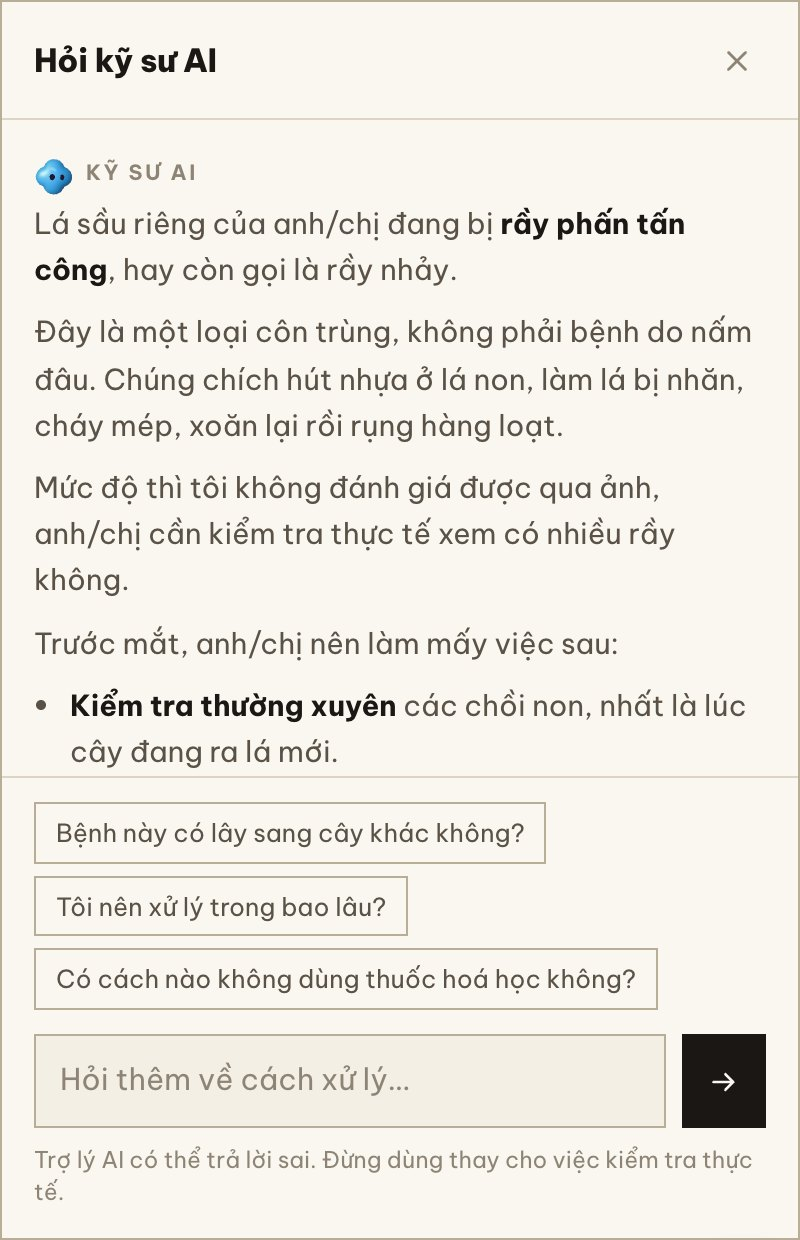
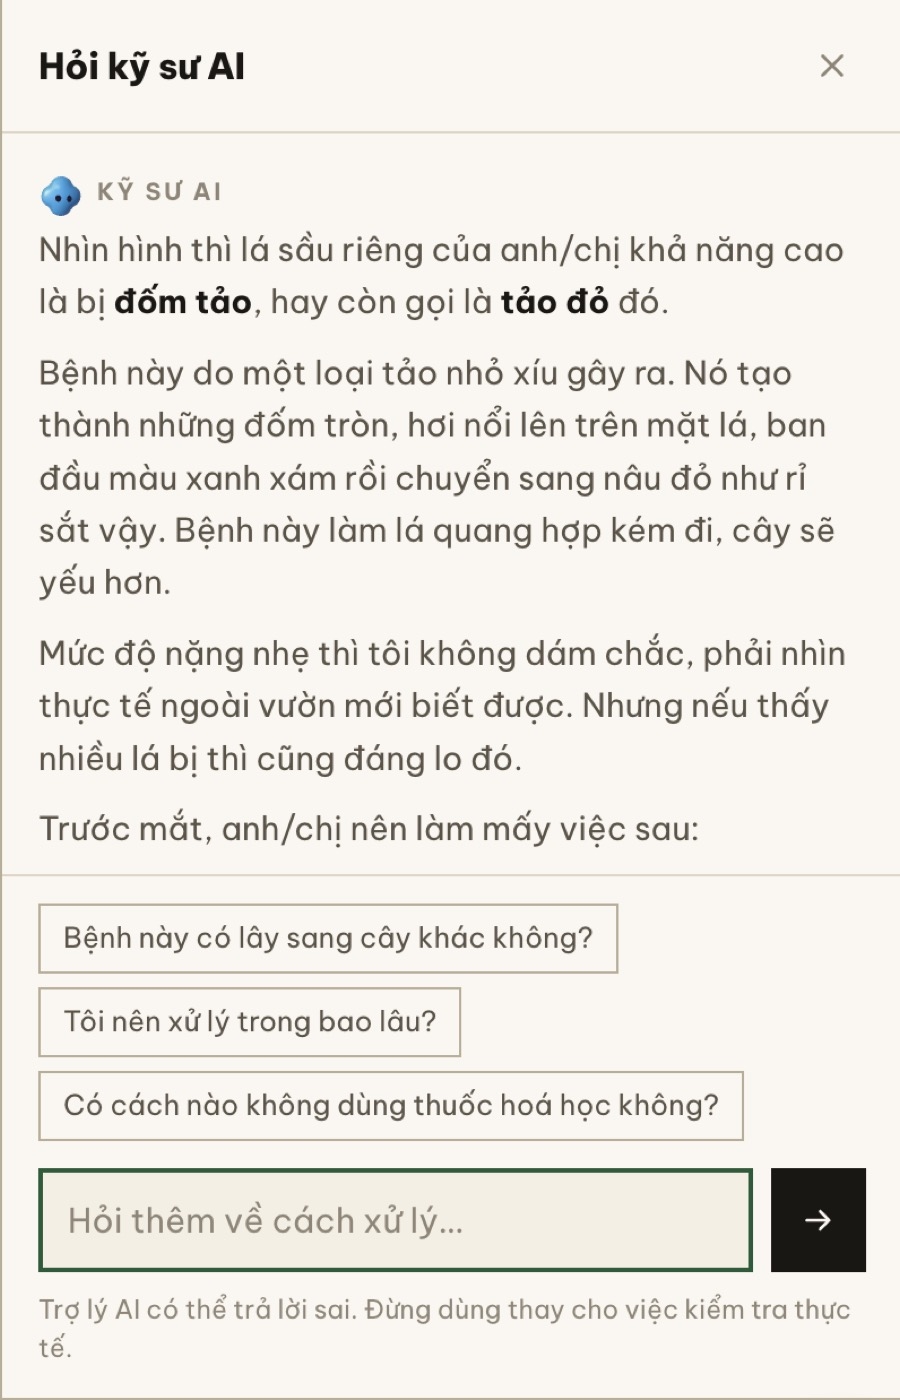
docs(readme): thay ảnh kết quả web đúng hơn, bỏ UI mobile
- Thay ui-result.jpg bằng ảnh chụp mới: chẩn đoán "đốm tảo" 99.8%,
  khung khoanh vùng trùm đúng vết bệnh (ảnh cũ khoanh lệch sang lá khoẻ).
- Thay ui-chat.jpg bằng ảnh trợ lý AI giải thích cùng ca bệnh.
- Bỏ phần giao diện trên điện thoại (UI mobile) khỏi mục Ứng dụng web.

diff --git a/README.md b/README.md
@@ -251,7 +251,7 @@ hiểu được và trả lời câu hỏi tiếp theo. Chữ hiện dần theo 
 
 ![Trợ lý AI trả lời](docs/images/ui-chat.jpg)
 
-## Xuất phiếu kết quả, chế độ tối, điện thoại
+## Xuất phiếu kết quả, chế độ tối
 
 <table>
 <tr>
@@ -263,11 +263,6 @@ hiểu được và trả lời câu hỏi tiếp theo. Chữ hiện dần theo 
 <td align="center"><i>Chế độ tối</i></td>
 </tr>
 </table>
-
-<p align="center">
-  <img src="docs/images/ui-mobile.jpg" width="320" alt="Giao diện trên điện thoại">
-  <br><i>Giao diện trên điện thoại</i>
-</p>
 
 ## Công nghệ
 
